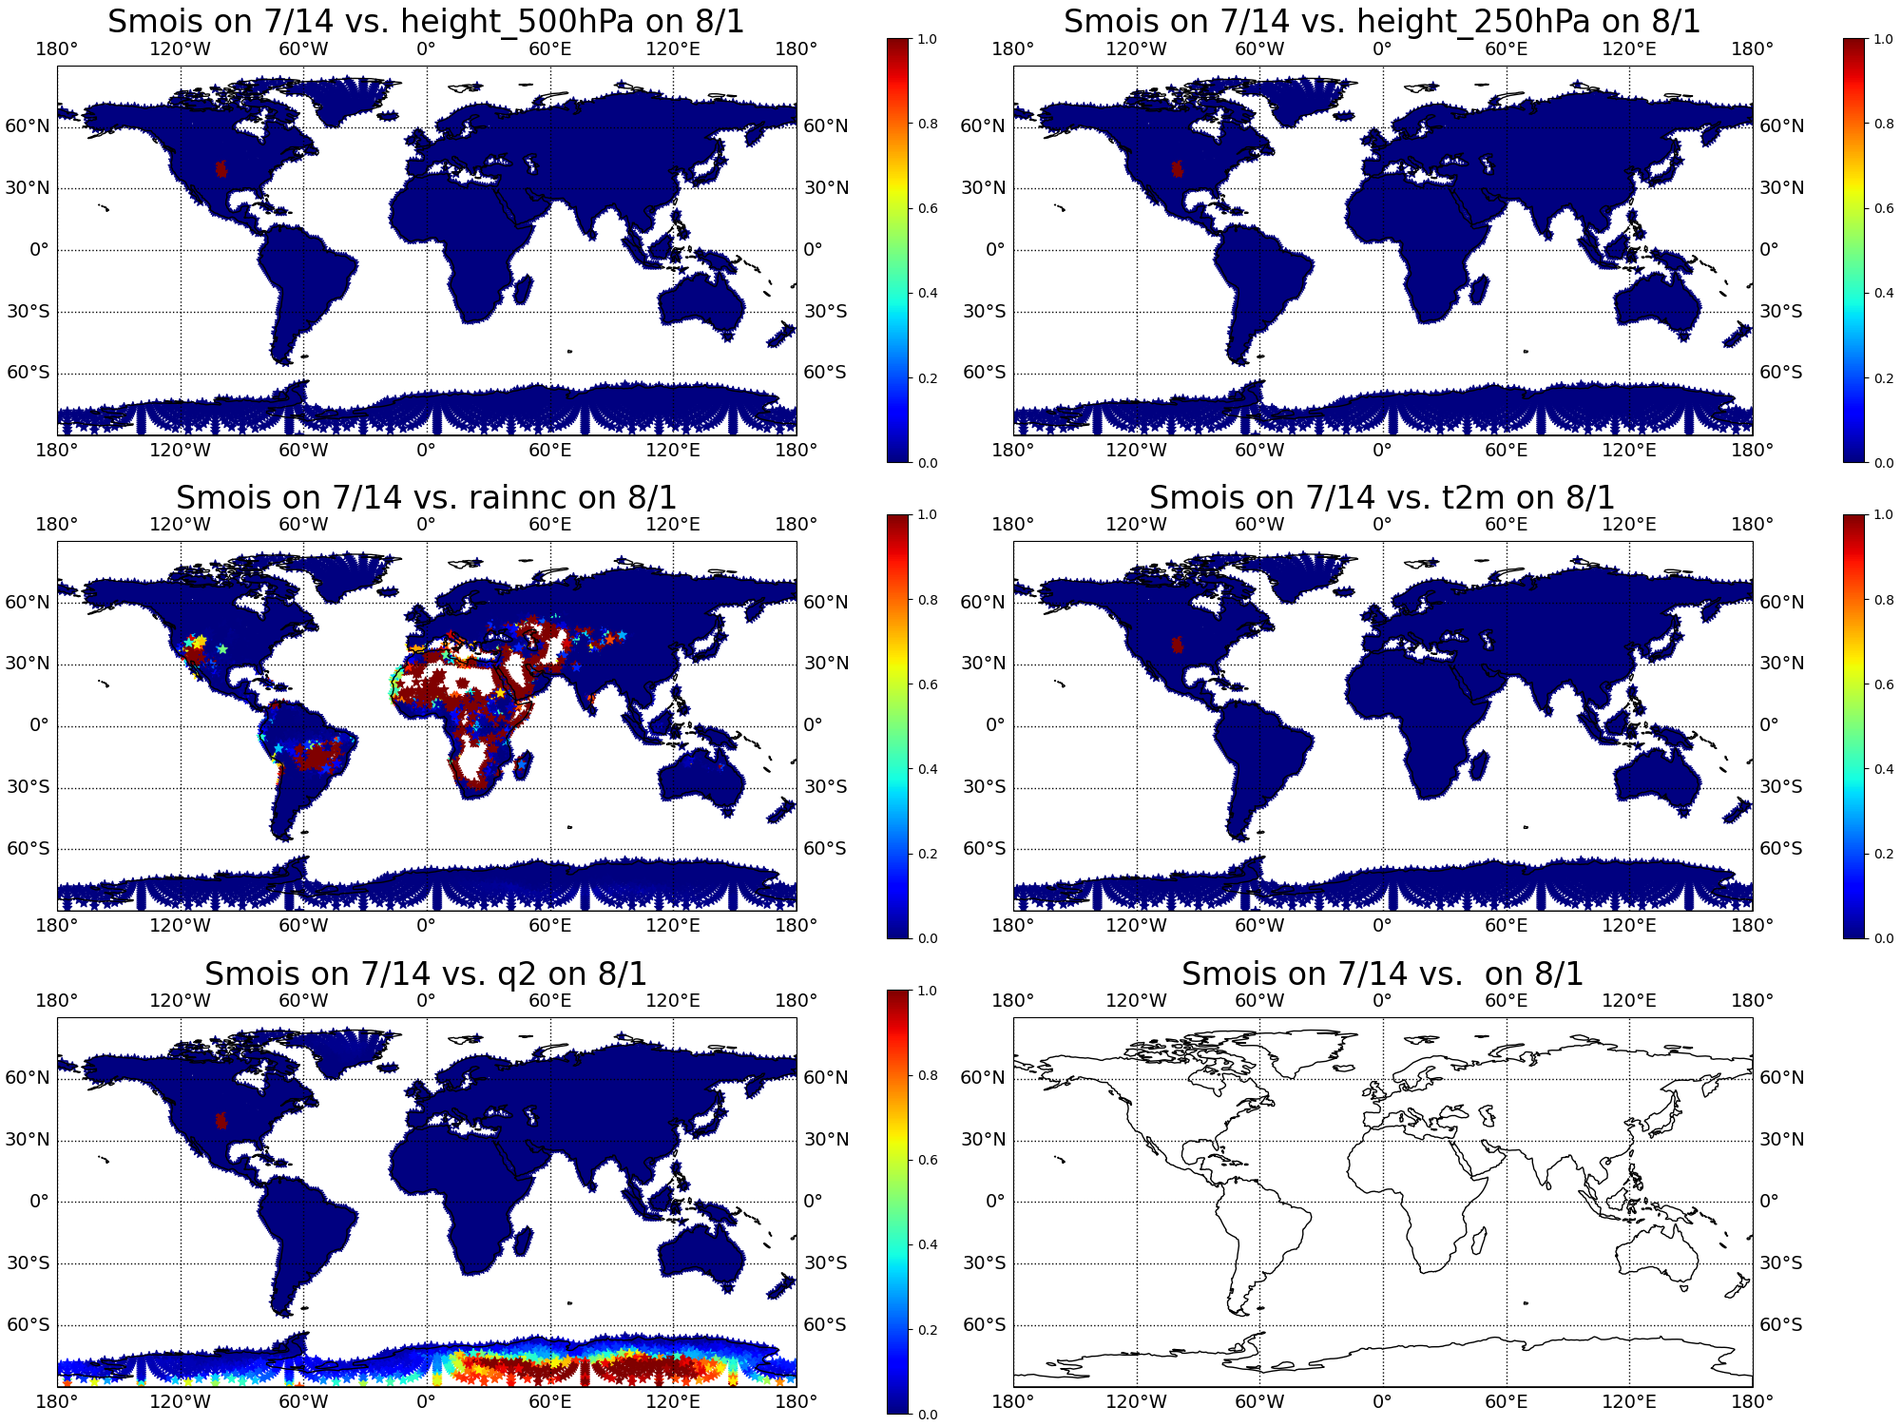
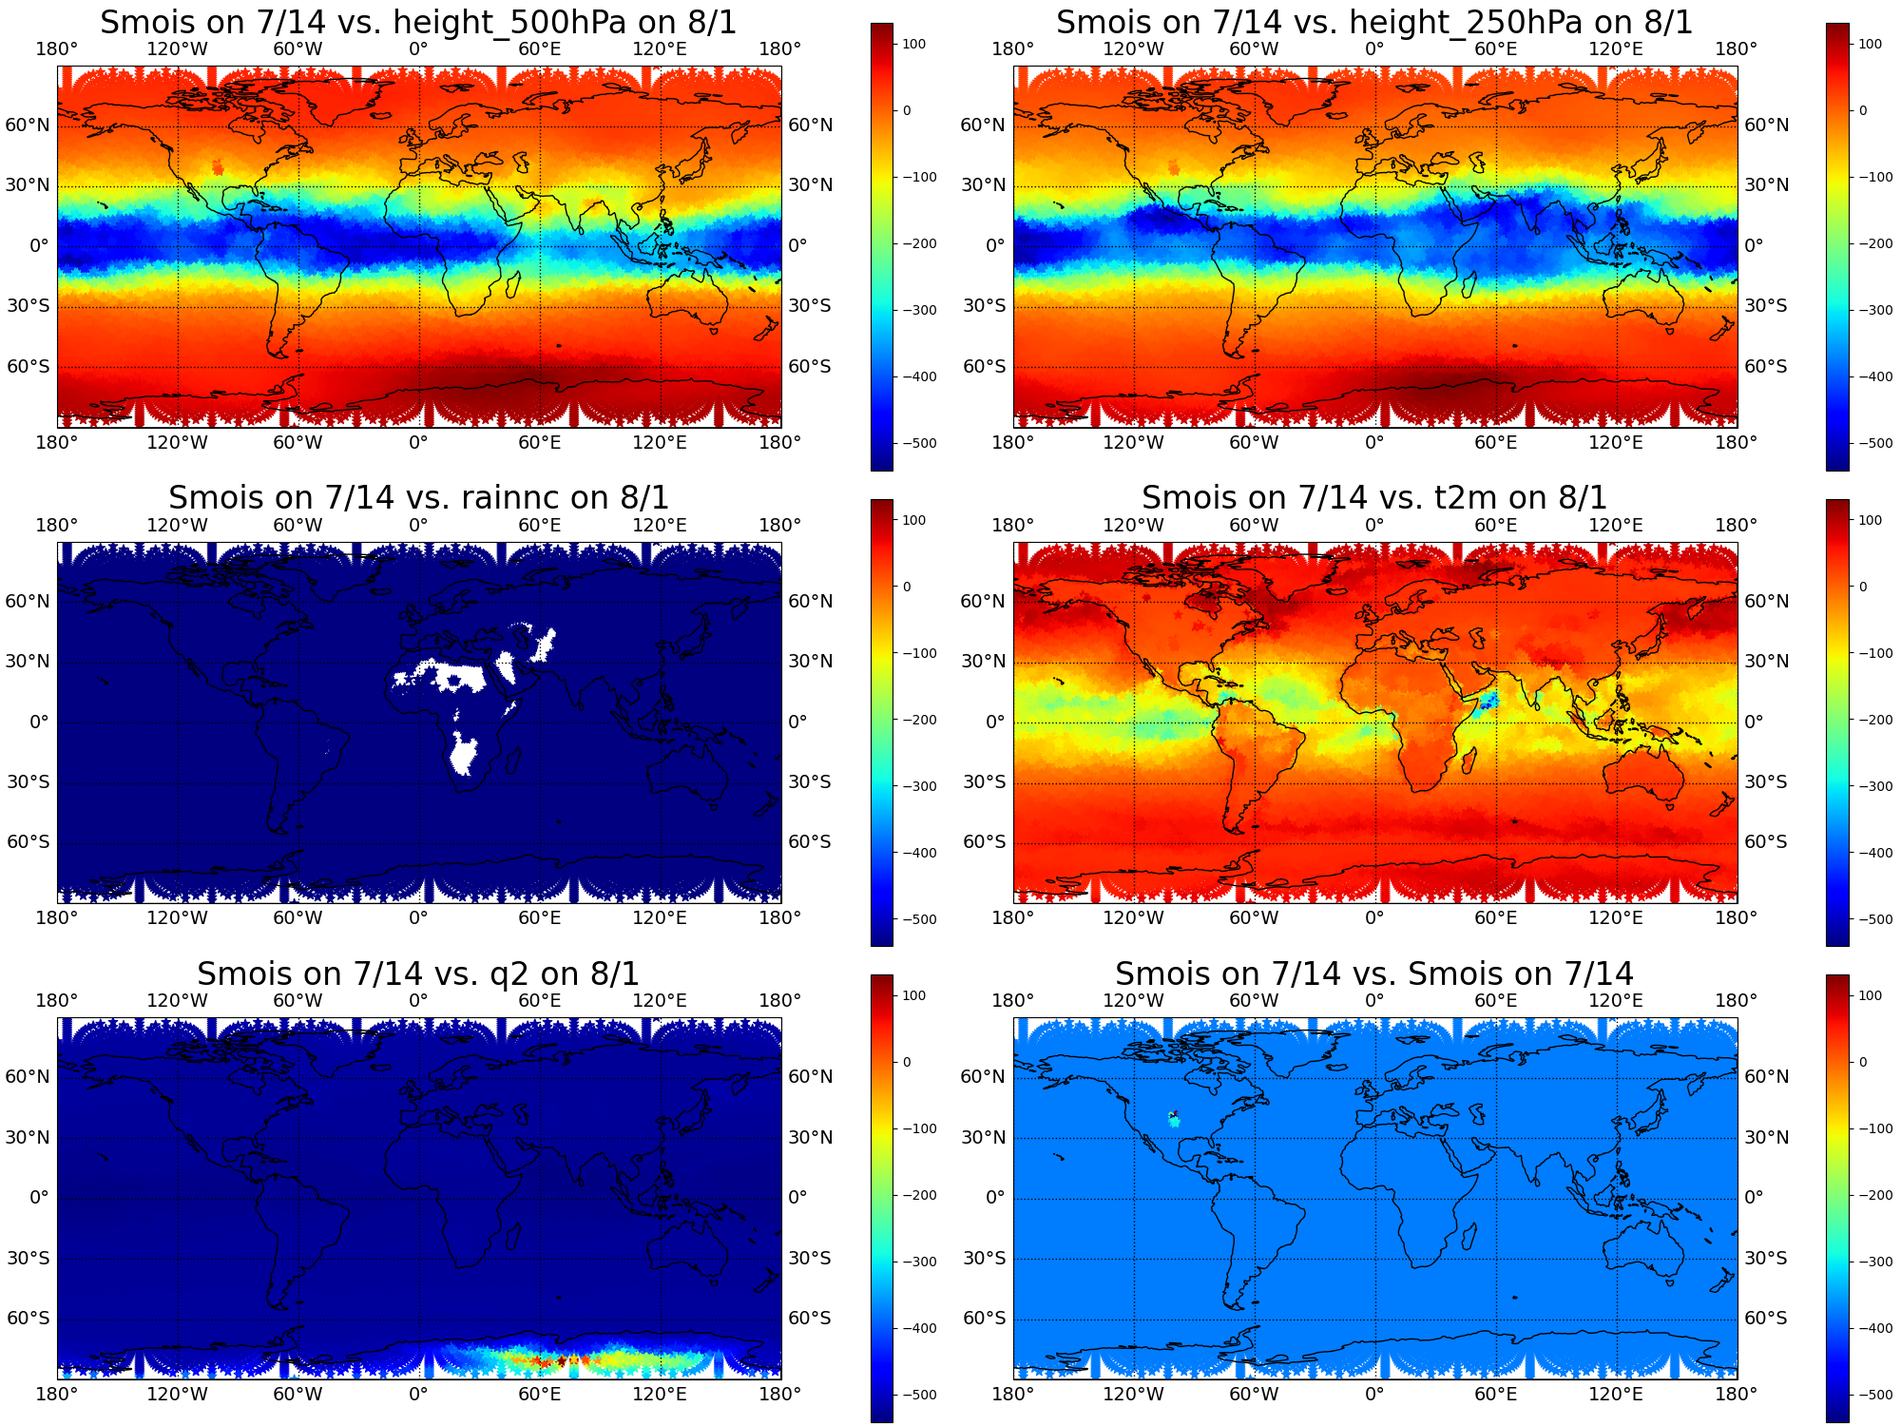
fixed correlations somewhat

diff --git a/glace_esa.py b/glace_esa.py
@@ -1,0 +1,165 @@
+'''
+Alex Yang Honors Thesis Task 6 SU26
+/users/PAS3252/ayang1720/HONORS_THESIS
+/fs/ess/PAS2635/LandAir_Predictability
+/fs/scratch/PAS3252/yang/HONORS_THESIS
+NEW 7/20/26
+'''
+
+#imports
+import pickle
+import numpy as np
+from netCDF4 import Dataset
+from datetime import datetime, timedelta
+from scipy.stats import beta, false_discovery_control
+
+#settings
+number_of_ensembles=100
+ncells=40962
+response_variables=['height_500hPa','height_250hPa','rainnc','t2m','q2']
+smois_start_time=datetime.strptime('20210714210000','%Y%m%d%H%M%S') #7/14/21 at 21Z
+variables_start_time=datetime.strptime('20210801210000','%Y%m%d%H%M%S') #8/1/21 at 21Z
+
+#input: array (5) of response variables names, that get pulled from the .nc file for august 1st
+#input: time, the exact datetime object referring to the date/time the file produces
+#input: number_of_ensembles,ncells -> 100,40962 in this case
+#output: array (5,100,40962) of 100 ensemble runs of 40962 grid cells for each response variable
+def construct_array(responses,time,number_of_ensembles,ncells):
+    array_of_global_response_variables=np.zeros((len(responses),number_of_ensembles,ncells))
+    paths=np.empty(number_of_ensembles,dtype='object')
+    paths_minus_3_hours=np.empty(number_of_ensembles,dtype='object')
+    for i in range(number_of_ensembles):
+        time=variables_start_time.strftime('%Y-%m-%d_%H.%M.%S')
+        paths[i]='/fs/ess/PAS2635/LandAir_Predictability/member_'+str((i+1)).zfill(5)+'/diag.'+time+'.nc'
+        paths_minus_3_hours[i]=paths[i][:-22]+str(variables_start_time-timedelta(hours=3))+'.nc'
+        paths_minus_3_hours[i]=paths_minus_3_hours[i].replace(" ", "_")
+        paths_minus_3_hours[i]=paths_minus_3_hours[i].replace(":", ".")
+    for i in range(number_of_ensembles):
+        fname=paths[i]
+        fname2=paths_minus_3_hours[i]
+        nc=Dataset(fname)
+        nd=Dataset(fname2)
+        for j in range(len(response_variables)):
+            time=variables_start_time.strftime('%Y-%m-%d_%H.%M.%S')
+            time=time.replace(" ", "_")
+            if (response_variables[j]=='rainnc'): #find just a 3 hour integrated time span
+                rainnc_in_the_3_hour_range=(np.squeeze(np.array(nc[response_variables[j]])))-\
+                    (np.squeeze(np.array(nd[response_variables[j]])))
+                array_of_global_response_variables[j,i,:]=rainnc_in_the_3_hour_range
+            else: #finding the average of the response variables over a day
+                sum_over_a_day=np.zeros(ncells)
+                for k in range(8):
+                    hour_step=timedelta(k*3)
+                    itime=datetime.strptime(time,'%Y-%m-%d_%H.%M.%S')
+                    itime+=hour_step
+                    jtime=itime.strftime('%Y-%m-%d_%H.%M.%S')
+                    fname3=fname[:57]+jtime+'.nc'
+                    ne=Dataset(fname3)
+                    array_of_global_response_variables[j,i,:]=(np.squeeze(np.array(ne[response_variables[j]])))
+                    sum_over_a_day+=array_of_global_response_variables[j,i,:]
+                sum_over_a_day/=8
+                array_of_global_response_variables[j,i,:]=sum_over_a_day
+        nc.close()
+        nd.close()
+        ne.close()
+        print('ensemble #'+str(i+1))
+    return array_of_global_response_variables
+#input:
+#X: 100 ensemble members' area averaged soil moisture array july 14th (glace mask)
+#X: area averaged soil moisture (fixed) should be the same for each of the 40000 cells
+#R: atmospheric state of 100 values on august 1st for a single cell
+#R: R changes depending on which cell you're examining, size (40962,100)
+
+#output:
+#correlation: a 1d array (40962) representing correlation between X/R -> all values between -1 and 1
+
+def cor(X1d,R2d):
+    number_of_ensembles = len(X1d)
+    X1d_mean=np.mean(X1d)
+    R2d_mean=np.mean(R2d, axis=-1)
+    X1d_pert = X1d - X1d_mean
+    R2d_pert = (R2d.T - R2d_mean).T
+    covariance = np.sum( X1d_pert * R2d_pert, axis=-1) / (number_of_ensembles-1)
+
+    std_X = np.std( X1d, ddof=1 )
+    std_R = np.std( R2d, ddof=1, axis=-1 )
+    correlation = covariance / ( std_X * std_R)
+
+    print(np.shape(correlation))#check shape to be 40962
+
+    return correlation
+
+#input: 1d array of size (40000) -> correlations
+#output: 1d array of size (40000) -> p values
+def pvalue(correlation,number_of_ensembles):
+    n=number_of_ensembles
+    dist = beta(n/2 - 1, n/2 - 1, loc=-1, scale=2)
+    r=correlation
+    p=2*dist.cdf(-abs(r))
+    p=false_discovery_control(p, axis=0, method='by')
+    return p
+
+#script
+
+#constructing the CONUS mask and land mask
+fname='/fs/ess/PAS2635/Generalized_Predictability_MPAS/120km_uniform/history.2025-10-01_06.00.00.nc'
+nc=Dataset(fname)
+latCell=np.array(nc['latCell']) #in radians
+lonCell=np.array(nc['lonCell']) #in radians
+latCell*=(180/np.pi) #in degrees
+lonCell*=(180/np.pi) #in degrees
+
+#constructing the GLACE mask
+glace_mask=(latCell>=37)*(latCell<=44)*(lonCell>=(360-104))*(lonCell<=(360-97))
+
+#constructing the soil moisture array for the entire globe on july 14th
+paths=np.empty(number_of_ensembles,dtype='object')
+for i in range(number_of_ensembles):
+    paths[i]='/fs/ess/PAS2635/LandAir_Predictability/member_'+str((i+1)).zfill(5)+'/diag.2021-07-14_21.00.00.nc'
+smois_array=np.zeros((number_of_ensembles,ncells))
+for i in range(number_of_ensembles):
+    fname=paths[i]
+    nc=Dataset(fname)
+    smois_array[i,:]=(np.squeeze(np.array(nc['smois'])))[:,0]
+    nc.close()
+    #array of 100 soil moistures, each with ncells=40962
+
+#creates an array of size 100 for each ensemble's glaced smois value
+glaced_smois_array=np.empty(number_of_ensembles,dtype='object')
+for i in range(number_of_ensembles):
+    glaced_smois_array[i]=smois_array[i,:][glace_mask]
+    temp_not_zeroed=np.mean(glaced_smois_array[i])
+    print(temp_not_zeroed) #should be a diffent, smaller value
+    glaced_smois_array[i]=np.mean(glaced_smois_array[i][glaced_smois_array[i]!=0])
+    print(glaced_smois_array[i])
+#need also to pass in a 100 element array of a single cell 40962 times for each time step
+#you'll pass glaced_smois_array into your cor function
+
+#check the following 4 lines for accuracy
+#constructing the atmospheric state array for the entire globe on aug 1 (100 arrays of 40962 cells each)
+#global_arrays=np.zeros((len(response_variables),number_of_ensembles,ncells))
+global_arrays=construct_array(response_variables,variables_start_time,number_of_ensembles,ncells) #shape: (# of responses, 100 ensembles, 40962 cells)
+correlations=np.zeros((len(response_variables),ncells)) #(5,40962) correlation between X/R, should be all values between -1,1
+pvalues=np.zeros((len(response_variables),ncells))
+for i in range(len(response_variables)):
+    global_arrays_2d=global_arrays[i,:,:]
+    transposed_global_arrays=global_arrays_2d.T
+    correlations[i,:]=cor(glaced_smois_array,transposed_global_arrays)
+    #pvalues=pvalue(correlations,number_of_ensembles) #creates an array of 40962 pvalues for a specified time/date
+    #NOTE: pvalues throw an error because some correlations are outside the interval [-1,1]
+
+for i in range(len(response_variables)):
+    for j in range(ncells):
+        print("correlation for "+response_variables[i]+", cell #"+str(j)+":")
+        print(correlations[i,j])
+        #print("p-value:")
+        #print(pvalues[i,j])
+
+esa_dict={}
+esa_dict['smois']=glaced_smois_array
+esa_dict['glace_mask']=glace_mask
+esa_dict['correlations']=correlations
+esa_dict['p-values']=pvalues #right now is just an array of zeros size (5,40962)
+for i in range(len(response_variables)):
+    esa_dict[response_variables[i]]=(global_arrays[i,:,:]) #each with size (100,40962)
+pickle.dump(esa_dict,open('ESA.pkl','wb'))

diff --git a/ensemble_sensitivity_with_glace_redo.py b/ensemble_sensitivity_with_glace_redo.py
@@ -3,52 +3,61 @@ Alex Yang Honors Thesis Task 6 SU26
 /users/PAS3252/ayang1720/HONORS_THESIS
 /fs/ess/PAS2635/LandAir_Predictability
 /fs/scratch/PAS3252/yang/HONORS_THESIS
-
-most of the code was copied over from task 5, but the new mask used for soil moisure
-pulls only smois data from where coupling has shown to be strongest from the glace
-experiment done by koster et. al (2006) -> we're going to restrict the conus domain
-to just 37-44 N lat and 97-104 W lon (great plains showed most significant in conus)
-
 '''
 
 #imports
 import pickle
 import numpy as np
 from netCDF4 import Dataset
+from datetime import datetime, timedelta
 
 #settings
 number_of_ensembles=100
 ncells=40962
-response_variables=['z500','z250','rainnc','t2m','q2']
 response_variables=['height_500hPa','height_250hPa','rainnc','t2m','q2']
+smois_start_time=datetime.strptime('20210714210000','%Y%m%d%H%M%S') #7/14/21 at 21Z
+variables_start_time=datetime.strptime('20210801210000','%Y%m%d%H%M%S') #8/1/21 at 21Z
 
-#input: array of response variables names, that get pulled from the .nc file for august 1st
-#output: array containing 100 ensemble runs of 40962 grid cells for each of the (in this case) 5 response variables
+#input: array (5) of response variables names, that get pulled from the .nc file for august 1st
+#output: array (5,100,40962) of 100 ensemble runs of 40962 grid cells for each response variable
 def construct_array(responses):
     array_of_global_response_variables=np.zeros((len(responses),number_of_ensembles,ncells))
     paths=np.empty(number_of_ensembles,dtype='object')
     paths_minus_3_hours=np.empty(number_of_ensembles,dtype='object')
     for i in range(number_of_ensembles):
-        paths[i]='/fs/ess/PAS2635/LandAir_Predictability/member_'+str((i+1)).zfill(5)+'/diag.2021-08-01_21.00.00.nc'
-        paths_minus_3_hours[i]=paths[i][:-16]+'8-01_18.00.00.nc'
+        time=variables_start_time.strftime('%Y-%m-%d_%H.%M.%S')
+        paths[i]='/fs/ess/PAS2635/LandAir_Predictability/member_'+str((i+1)).zfill(5)+'/diag.'+time+'.nc'
+        paths_minus_3_hours[i]=paths[i][:-22]+str(variables_start_time-timedelta(hours=3))+'.nc'
+        paths_minus_3_hours[i]=paths_minus_3_hours[i].replace(" ", "_")
+        paths_minus_3_hours[i]=paths_minus_3_hours[i].replace(":", ".")
     for i in range(number_of_ensembles):
         fname=paths[i]
         fname2=paths_minus_3_hours[i]
         nc=Dataset(fname)
         nd=Dataset(fname2)
         for j in range(len(response_variables)):
-            if (response_variables[j]=='rainnc'):
+            time=variables_start_time.strftime('%Y-%m-%d_%H.%M.%S')
+            time=time.replace(" ", "_")
+            if (response_variables[j]=='rainnc'): #find just a 3 hour integrated time span
                 rainnc_in_the_3_hour_range=(np.squeeze(np.array(nc[response_variables[j]])))-\
                     (np.squeeze(np.array(nd[response_variables[j]])))
                 array_of_global_response_variables[j,i,:]=rainnc_in_the_3_hour_range
-            else:
-                array_of_global_response_variables[j,i,:]=(np.squeeze(np.array(nc[response_variables[j]])))
-            #array of z500 heights, each with ncells=40962
-            #array of z250 heights, each with ncells=40962
-            #array of cumulative precipitation in mm, each with ncells=40962
-            #array of 2 meter temperature K, each with ncells=40962
-            #array of 2 meter specific humidity kg/kg, each with ncells=40962
+            else: #finding the average of the response variables over a day
+                sum_over_a_day=np.zeros(ncells)
+                for k in range(8):
+                    hour_step=timedelta(k*3)
+                    itime=datetime.strptime(time,'%Y-%m-%d_%H.%M.%S')
+                    itime+=hour_step
+                    jtime=itime.strftime('%Y-%m-%d_%H.%M.%S')
+                    fname3=fname[:57]+jtime+'.nc'
+                    ne=Dataset(fname3)
+                    array_of_global_response_variables[j,i,:]=(np.squeeze(np.array(ne[response_variables[j]])))
+                    sum_over_a_day+=array_of_global_response_variables[j,i,:]
+                sum_over_a_day/=8
+                array_of_global_response_variables[j,i,:]=sum_over_a_day
         nc.close()
+        nd.close()
+        ne.close()
         print('ensemble #'+str(i+1))
     return array_of_global_response_variables
 
@@ -97,7 +106,7 @@ def turn_response_variables_into_correlation_array(global_states_array,conus_smo
 
 #script
 
-#constructing the CONUS mask and land mask
+#constructing the CONUS mask and land mask NOTE: edited land_mask to alway be true
 fname='/fs/ess/PAS2635/Generalized_Predictability_MPAS/120km_uniform/history.2025-10-01_06.00.00.nc'
 nc=Dataset(fname)
 latCell=np.array(nc['latCell']) #in radians
@@ -109,6 +118,7 @@ conus_mask=True #change conus_mask to just apply to the entire world
 fname='/fs/ess/PAS2635/Generalized_Predictability_MPAS/120km_uniform/x1.40962.init.nc'
 nc=Dataset(fname)
 land_mask=np.squeeze(np.array(nc['landmask']))
+land_mask=True #land_mask now no longer applies at all
 
 #constructing the GLACE mask
 glace_mask=(latCell>=37)*(latCell<=44)*(lonCell>=(360-104))*(lonCell<=(360-97))
@@ -145,12 +155,16 @@ for i in range(len(response_variables)):
     for j in range(ncells):
         print(correlations[j,i])
 
+#generate smois correlated against smois
+smois_smois_correlation=cov(smois_array,smois_array)/np.sqrt(var_conus_smois)/np.sqrt(var_conus_smois)
+
 esa_dict={}
 esa_dict['smois']=conus_smois
 esa_dict['land_mask']=land_mask
 esa_dict['conus_mask']=conus_mask
 esa_dict['glace_mask']=glace_mask
 esa_dict['correlations']=correlations
+esa_dict['smois_smois_correlation']=smois_smois_correlation
 for i in range(len(response_variables)):
     esa_dict[response_variables[i]]=(conusify(global_arrays[i,:,:],land_mask,conus_mask))
 pickle.dump(esa_dict,open('ESA.pkl','wb'))

diff --git a/plot_glace.py b/plot_glace.py
@@ -1,5 +1,6 @@
 '''
 MPAS Plots for GLACE smois
+NEW 7/20/26
 '''
 #import packages
 from netCDF4 import Dataset
@@ -19,8 +20,11 @@ response_variables=np.reshape(response_variables,(3,2))
 #script
 esa_dict=pickle.load(open('ESA.pkl','rb'))
 correlations=esa_dict['correlations']
-smois_smois_correlation=esa_dict['smois_smois_correlation']
-#print(np.shape(correlations)) #40962*5
+print(np.shape(correlations)) #40962*5
+
+for i in range(40962):
+    if(((correlations[2,i])>1) or (correlations[2,1]<-1) or math.isinf(correlations[2,1]) or np.isnan(correlations[2,1])):
+        print("cell #"+str(i))
 
 #plotting
 fname='/fs/ess/PAS2635/Generalized_Predictability_MPAS/120km_uniform/history.2025-10-01_06.00.00.nc'
@@ -43,37 +47,63 @@ for i in range(3):
         if (i==2) and (j==1):
             ax.set_title('Smois on 7/14 vs. Smois on 7/14',fontsize=24)
 
-sc=axs[0,0].scatter(lonCell,latCell,c=correlations[:,0],\
+sc=axs[0,0].scatter(lonCell,latCell,c=correlations[0],\
                     cmap='jet',s=50,marker='*',transform=ccrs.PlateCarree())
 fig.colorbar(sc,ax=axs[0,0])
-axs[0,1].scatter(lonCell,latCell,c=correlations[:,1],\
+sc=axs[0,1].scatter(lonCell,latCell,c=correlations[1],\
                  cmap='jet',s=50,marker='*',transform=ccrs.PlateCarree())
 fig.colorbar(sc,ax=axs[0,1])
-axs[1,0].scatter(lonCell,latCell,c=correlations[:,2],\
+sc=axs[1,0].scatter(lonCell,latCell,c=correlations[2],\
                  cmap='jet',s=50,marker='*',transform=ccrs.PlateCarree())
 fig.colorbar(sc,ax=axs[1,0])
-axs[1,1].scatter(lonCell,latCell,c=correlations[:,3],\
+sc=axs[1,1].scatter(lonCell,latCell,c=correlations[3],\
                  cmap='jet',s=50,marker='*',transform=ccrs.PlateCarree())
 fig.colorbar(sc,ax=axs[1,1])
-axs[2,0].scatter(lonCell,latCell,c=correlations[:,4],\
+sc=axs[2,0].scatter(lonCell,latCell,c=correlations[4],\
                  cmap='jet',s=50,marker='*',transform=ccrs.PlateCarree())
 fig.colorbar(sc,ax=axs[2,0])
-axs[2,1].scatter(lonCell,latCell,c=smois_smois_correlation,\
-                 cmap='jet',s=50,marker='*',transform=ccrs.PlateCarree())
-fig.colorbar(sc,ax=axs[2,1])
 
-#print(np.shape(correlations))
+'''
 ps=np.zeros((ncells,5))
 for i in range(5):
         for k in range(40962):
-            r=correlations[k,i]
+            r=correlations[i,k]
             if (math.isinf(r)):
                 r=0
             t_stat=r*np.sqrt((100-2)/(1-r**2))
-            ps[k,j]=2*(1-scipy.stats.t.cdf(np.abs(t_stat),df=100-2))
+            ps[k,i]=2*(1-scipy.stats.t.cdf(np.abs(t_stat),df=100-2))
 new_ps=scipy.stats.false_discovery_control(ps,method='by')
-number_of_statistically_significant=np.sum(new_ps<=0.05)
-print(number_of_statistically_significant)
+number_of_statistically_significant=np.zeros((5))
+for i in range(5):
+    number_of_statistically_significant[i]=np.sum(new_ps[:,i]<=0.05)
+    print(number_of_statistically_significant)
+'''
 
-plt.savefig('glace_plot_sample.png')
+number_of_statistically_significant=np.zeros((5))
+for i in range(5):
+    number_of_statistically_significant[i]=np.sum(np.abs(correlations[i,:])>=0.2)
+    print(number_of_statistically_significant[i]/40962)
+statistically_significant_mask=np.abs(correlations)<0.2
+correlations=np.where(statistically_significant_mask,correlations,0)
+
+plt.savefig('glace_plot_7_20_26.png')
+
+'''
+sc=axs[0,0].scatter(lonCell,latCell,c=correlations[0],\
+                    cmap='jet',s=50,marker='*',transform=ccrs.PlateCarree())
+fig.colorbar(sc,ax=axs[0,0])
+sc=axs[0,1].scatter(lonCell,latCell,c=correlations[1],\
+                 cmap='jet',s=50,marker='*',transform=ccrs.PlateCarree())
+fig.colorbar(sc,ax=axs[0,1])
+sc=axs[1,0].scatter(lonCell,latCell,c=correlations[2],\
+                 cmap='jet',s=50,marker='*',transform=ccrs.PlateCarree())
+fig.colorbar(sc,ax=axs[1,0])
+sc=axs[1,1].scatter(lonCell,latCell,c=correlations[3],\
+                 cmap='jet',s=50,marker='*',transform=ccrs.PlateCarree())
+fig.colorbar(sc,ax=axs[1,1])
+sc=axs[2,0].scatter(lonCell,latCell,c=correlations[4],\
+                 cmap='jet',s=50,marker='*',transform=ccrs.PlateCarree())
+fig.colorbar(sc,ax=axs[2,0])
+plt.savefig('glace_plot_7_20_26_only_significant.png')
+'''
 plt.close()
